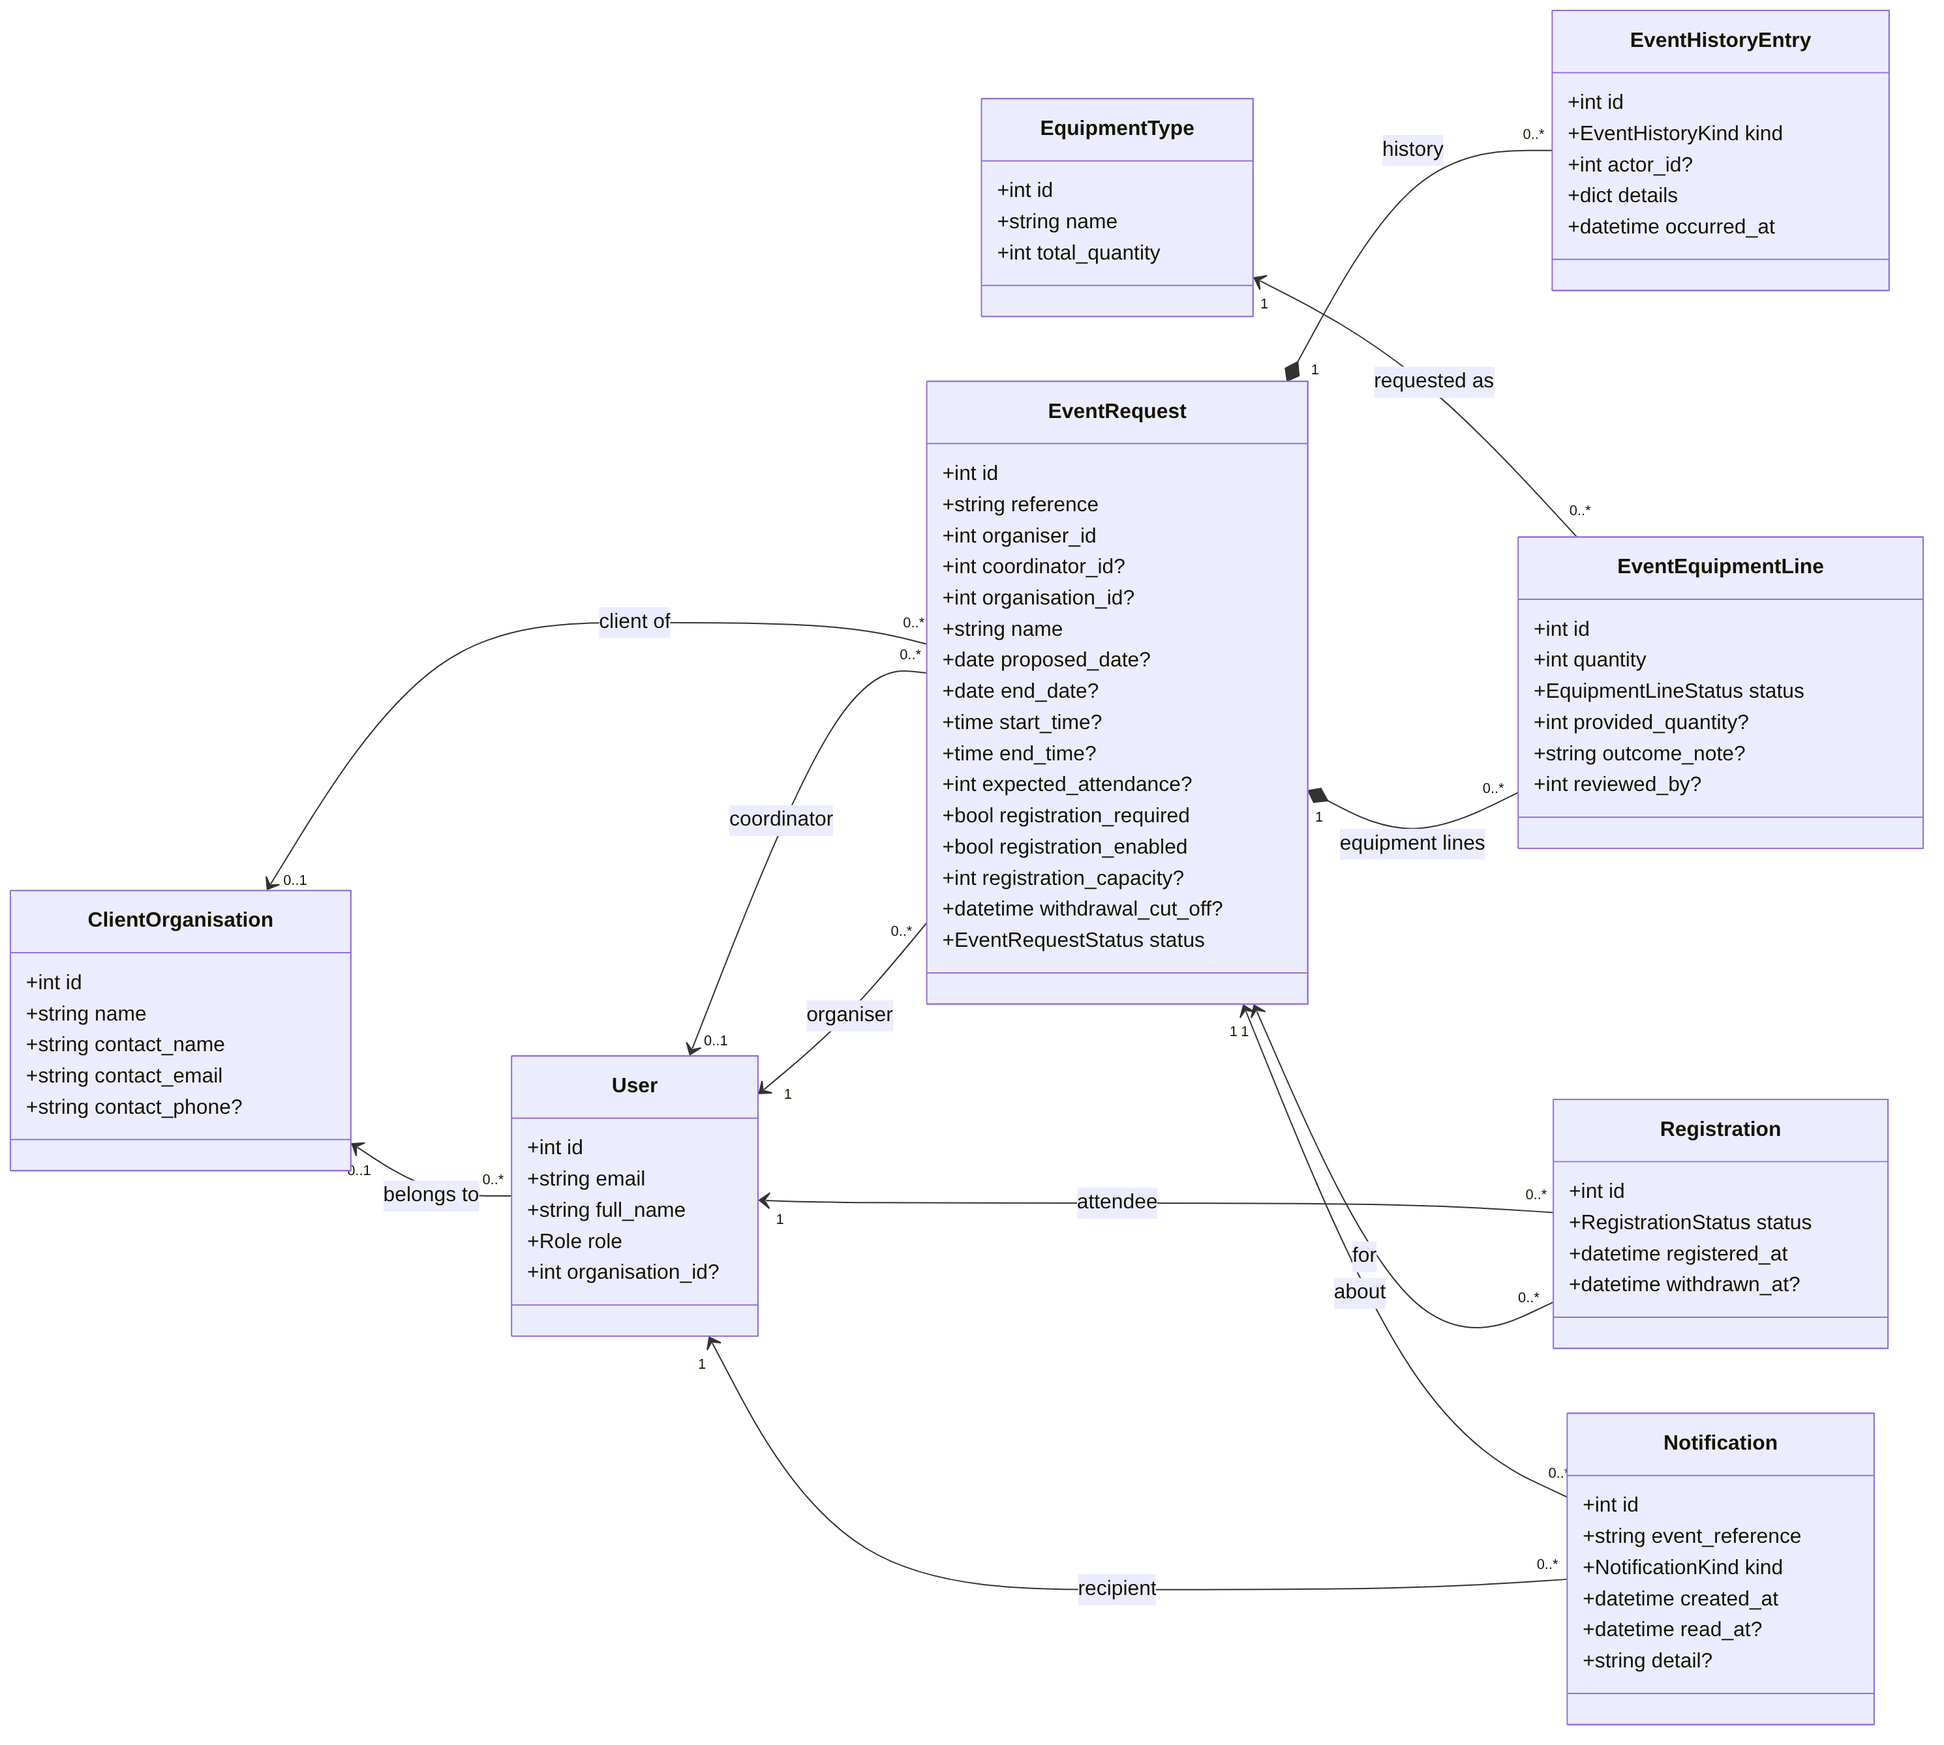
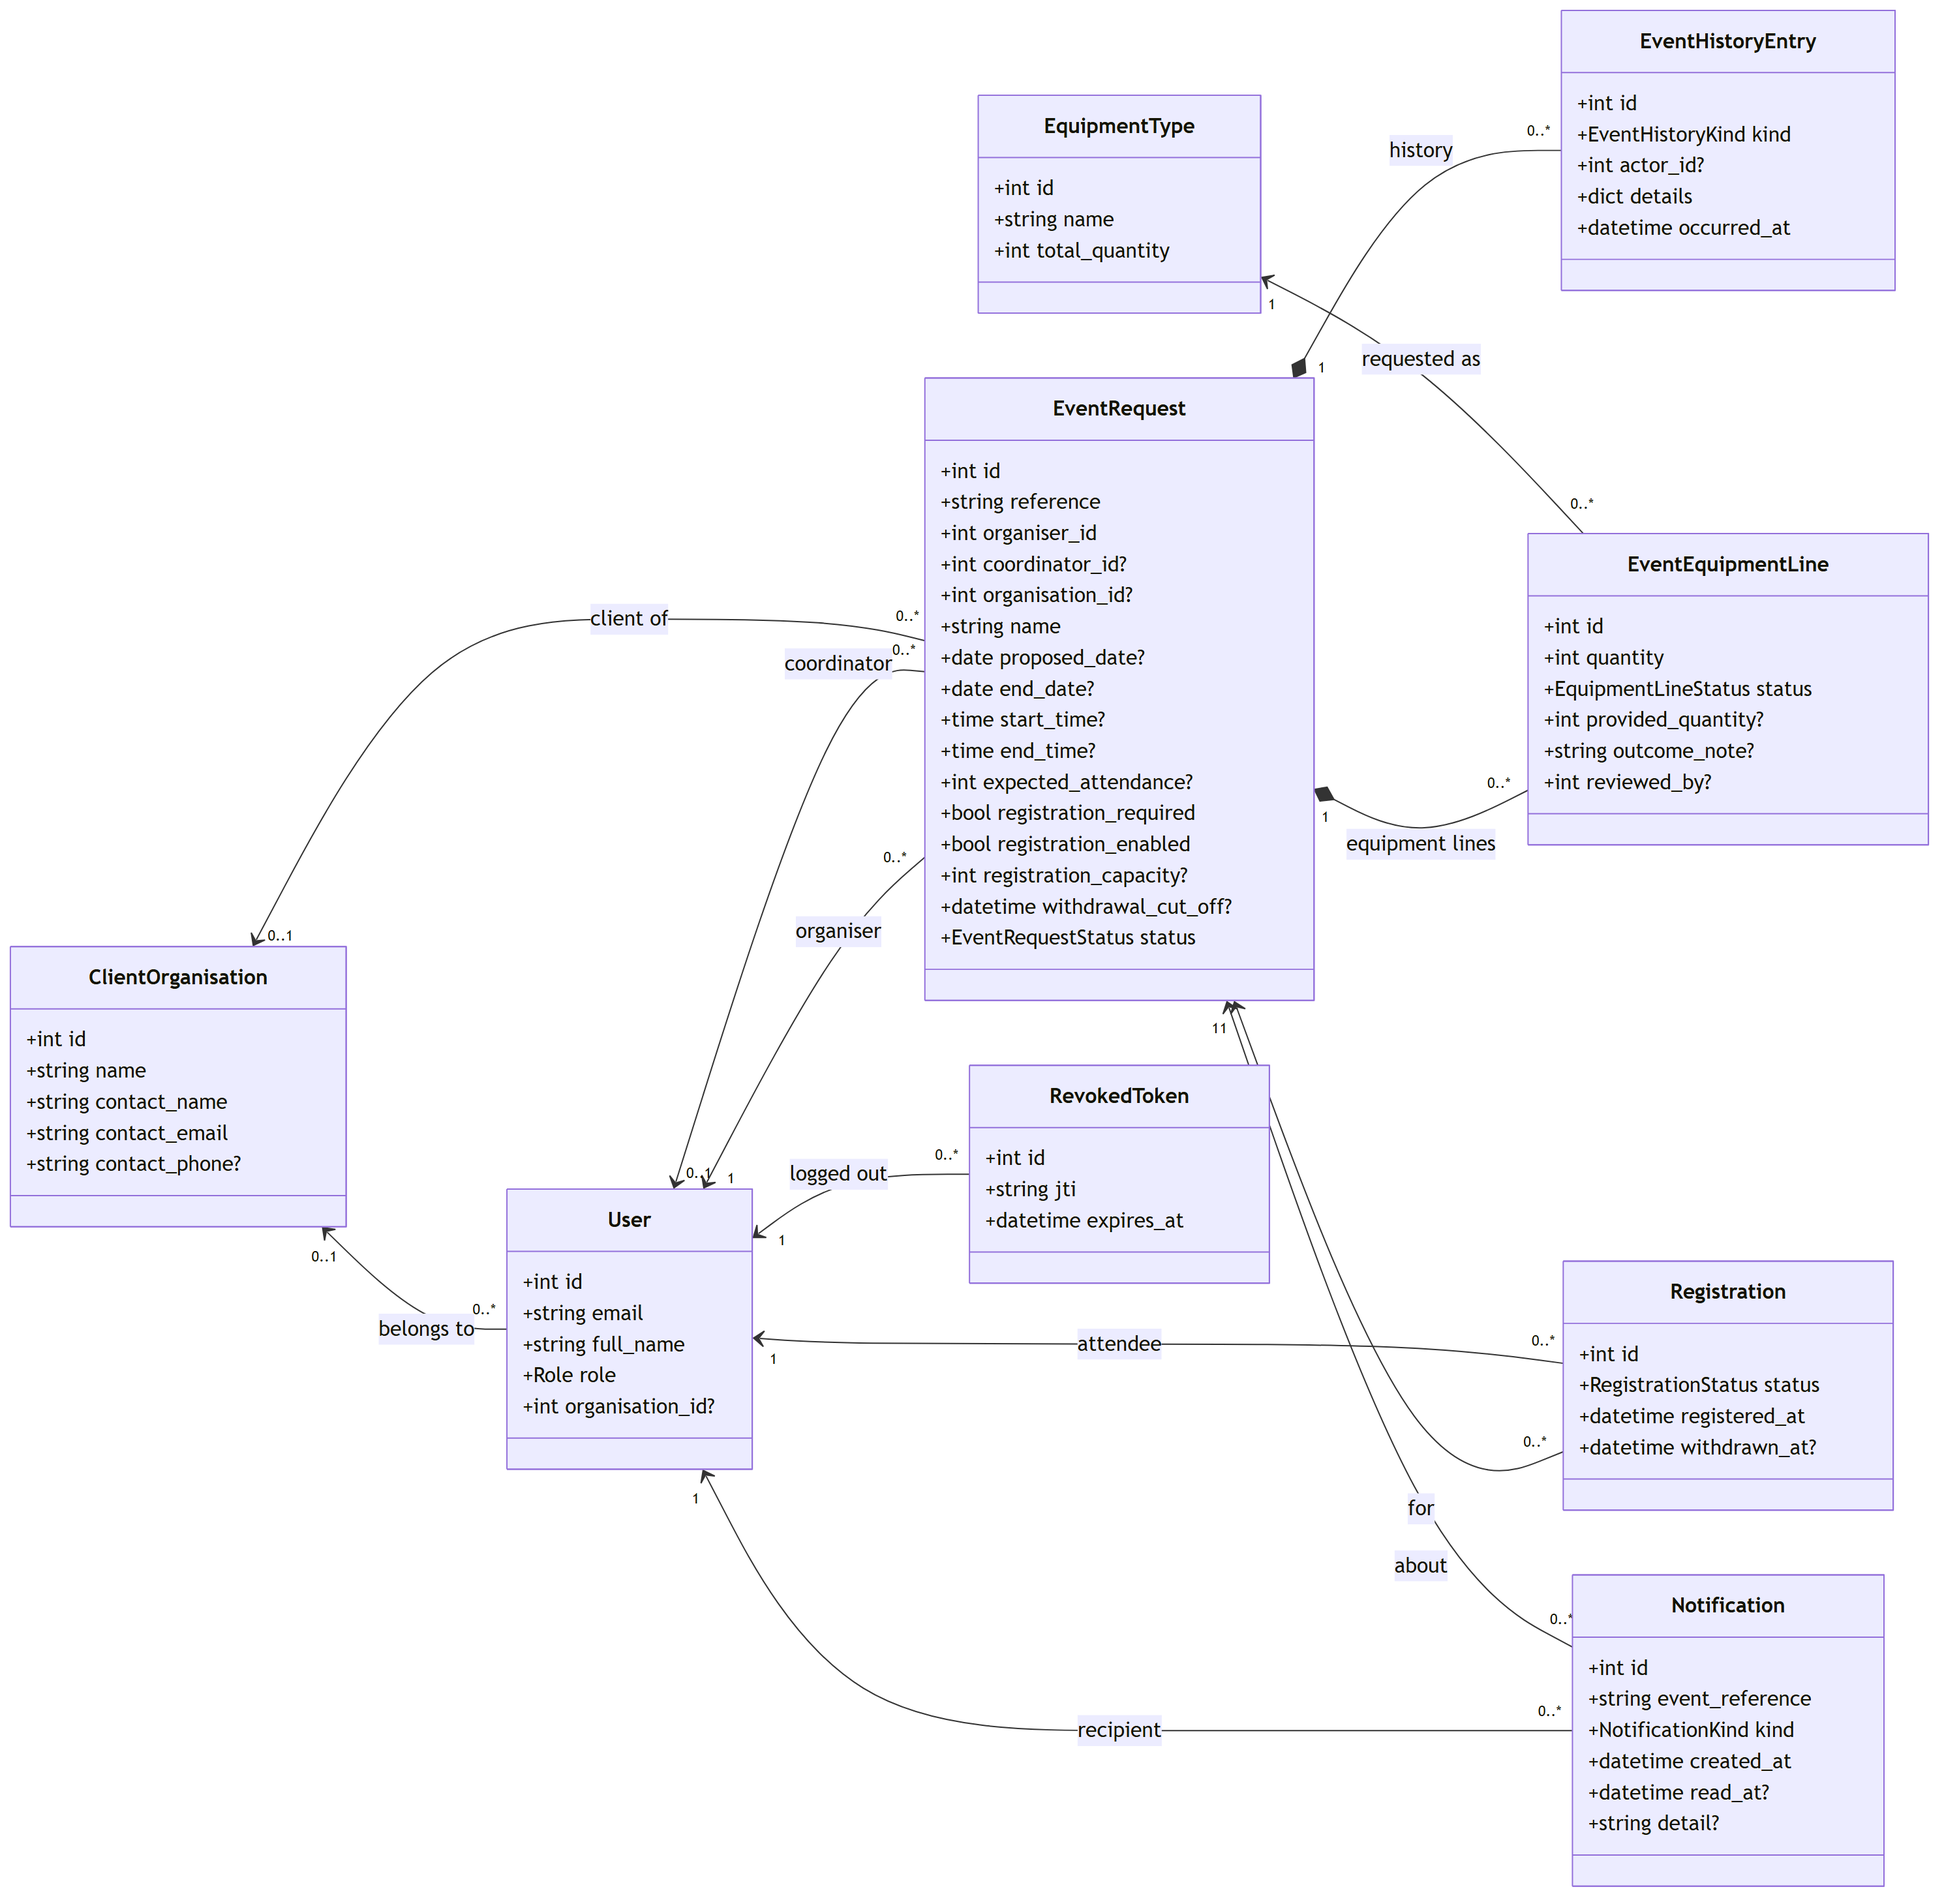
docs(SCRUM-78): draw what main gained since 27 Oct in the architecture diagrams
main has moved on 88 commits since the diagrams were drawn. Bring them up to
it as of 31 Oct:

- the revoked_tokens table (SCRUM-89, migration 0048, ADR-0110) in the ER
  and class diagrams, and 18 tables up to migration 0048 in the text;
- NotificationKind has 30 kinds (0046 and 0047 added two);
- auth has 5 routes with POST /api/auth/logout, and registration 6 with the
  attendee's own event (SCRUM-24);
- registration now imports venue's services (list_booked_venues), so the
  module diagram gets that arrow.

PNGs re-rendered from the Mermaid sources for the three diagrams changed.

diff --git a/docs/architecture/03-c4-components.md b/docs/architecture/03-c4-components.md
@@ -17,12 +17,12 @@ flowchart LR
 
   subgraph api["Backend API [Flask 3.1]"]
     direction LR
-    auth["<b>auth</b><br/>/api/auth, 4 routes<br/>Sign-up, log-in, JWT, roles"]:::comp
+    auth["<b>auth</b><br/>/api/auth, 5 routes<br/>Sign-up, log-in, log-out, JWT, roles"]:::comp
     orgs["<b>organisations</b><br/>/api/organisations, 2 routes<br/>Client organisations"]:::comp
     events["<b>events</b><br/>/api/events, 34 routes<br/>Requests, review, assignment,<br/>safety review, confirmation"]:::hub
     venue["<b>venue</b><br/>/api/venues, 23 routes<br/>Catalogue, search, bookings,<br/>holds, flags"]:::comp
     equipment["<b>equipment</b><br/>/api/equipment, 11 routes<br/>Catalogue, reservation,<br/>out-of-service"]:::comp
-    registration["<b>registration</b><br/>/api/events, 5 routes<br/>Register, withdraw, registrants"]:::comp
+    registration["<b>registration</b><br/>/api/events, 6 routes<br/>Register, withdraw, registrants,<br/>the attendee's own event"]:::comp
     notifications["<b>notifications</b><br/>/api/notifications, 3 routes<br/>Notify, list, mark read"]:::comp
   end
 
@@ -36,6 +36,7 @@ flowchart LR
   events --> notifications
   venue --> notifications
   equipment --> venue
+  registration --> venue
 
   style api fill:none,stroke:#888888,stroke-dasharray:5 3
 ```

diff --git a/docs/architecture/05-er-diagram.md b/docs/architecture/05-er-diagram.md
@@ -1,10 +1,12 @@
 # Entity-relationship diagrams
 
-The 17 tables created by the Alembic migrations (latest `0045`), split into three views so each stays readable.
+The 18 tables created by the Alembic migrations (latest `0048`), split into three views so each stays readable.
 Only keys and the columns that explain a relationship are shown. A table shown with just its key is a stub: it
 appears in full in another view. `bookings.event_id` has no foreign key, so it is a plain column with no line.
 
 ## 5a. People, events, registration and notifications
+
+`revoked_tokens` holds one row per access token logged out before it expired (SCRUM-89, ADR-0110).
 
 ```mermaid
 erDiagram
@@ -21,6 +23,7 @@ erDiagram
   EVENT_REQUESTS ||--o{ NOTIFICATIONS : "about"
   EVENT_REQUESTS ||--o{ REGISTRATIONS : "has"
   USERS ||--o{ REGISTRATIONS : "attends"
+  USERS ||--o{ REVOKED_TOKENS : "logged out"
 
   CLIENT_ORGANISATIONS {
     int id PK
@@ -69,6 +72,12 @@ erDiagram
     int event_request_id FK
     int attendee_id FK
     string status
+  }
+  REVOKED_TOKENS {
+    int id PK
+    string jti UK
+    int user_id FK
+    datetime expires_at
   }
   EQUIPMENT_TYPES {
     int id PK

diff --git a/docs/architecture/04-uml-class-diagrams.md b/docs/architecture/04-uml-class-diagrams.md
@@ -76,8 +76,14 @@ classDiagram
     +string name
     +int total_quantity
   }
+  class RevokedToken {
+    +int id
+    +string jti
+    +datetime expires_at
+  }
 
   ClientOrganisation "0..1" <-- "0..*" User : belongs to
+  User "1" <-- "0..*" RevokedToken : logged out
   User "1" <-- "0..*" EventRequest : organiser
   User "0..1" <-- "0..*" EventRequest : coordinator
   ClientOrganisation "0..1" <-- "0..*" EventRequest : client of
@@ -100,7 +106,7 @@ classDiagram
 | `EquipmentLineStatus` | requested, fulfilled, partially_fulfilled, unavailable |
 | `RegistrationStatus` | registered, withdrawn |
 
-`EventHistoryKind` (23 kinds) and `NotificationKind` (28 kinds) are enumerations too. They are left off the
+`EventHistoryKind` (23 kinds) and `NotificationKind` (30 kinds) are enumerations too. They are left off the
 diagram because their value lists are long. See `events/models.py` and `notifications/models.py`.
 
 ## 4b. Venues, bookings and equipment

diff --git a/docs/architecture/02-c4-containers.md b/docs/architecture/02-c4-containers.md
@@ -50,7 +50,7 @@ flowchart TB
 - Staff accounts are created by an admin with the `flask create-staff-user` command, not through
   sign-up (ADR-0023). There is no separate Administrator or CLI container on the diagram.
 - `docker-compose.yml` runs `postgres:16-alpine` and the backend on `python:3.12-slim` for local development.
-- Alembic migrations run up to `0045_add_venue_booking_released` (as of 25 Oct 2026).
+- Alembic migrations run up to `0048_create_revoked_tokens_table` (as of 31 Oct 2026).
 - The cron schedule is `.github/workflows/expire-holds.yml` (minute 7 of every hour, UTC). It stops after
   its first step until a `DATABASE_URL` repository secret exists, so the job does not yet run against a
   deployed database.

diff --git a/docs/architecture/README.md b/docs/architecture/README.md
@@ -1,6 +1,7 @@
 # ConnectSphere architecture
 
-C4 and UML diagrams of ConnectSphere as it stands on `main` and in Jira (statuses read 27 Oct 2026).
+C4 and UML diagrams of ConnectSphere as it stands on `main` and in Jira (statuses read 27 Oct 2026; checked
+again against `main` on 31 Oct, up to migration `0048`).
 All diagrams are Mermaid, so GitHub renders them directly from the `.md` files. PNG copies are in `rendered/` for slides and the submission zip.
 
 | File | Contents |
